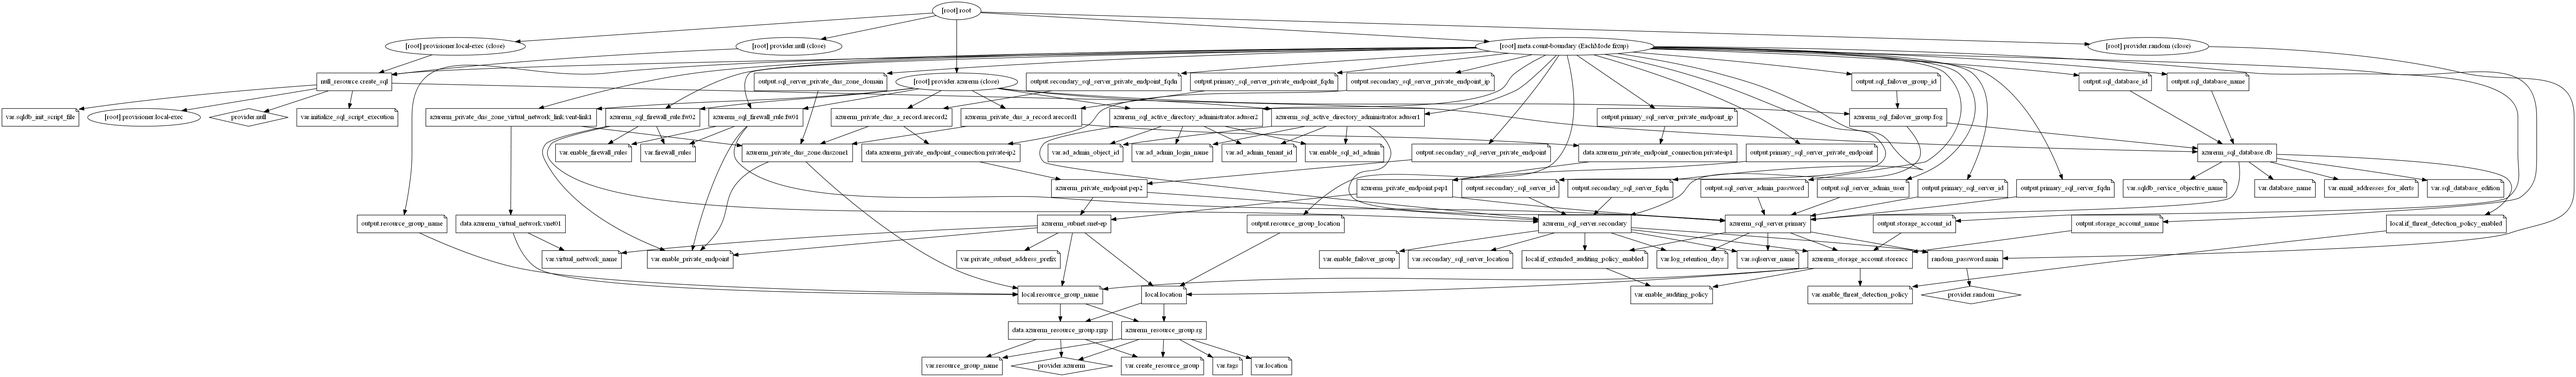
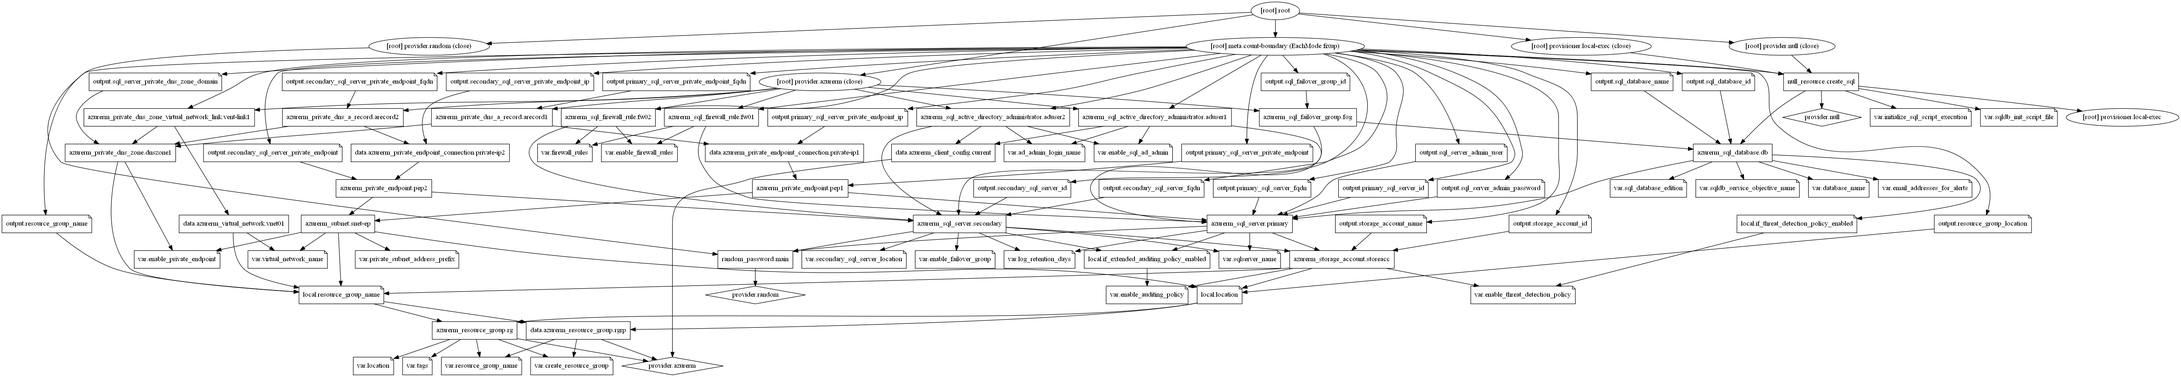
update module

diff --git a/README.md b/README.md
@@ -20,7 +20,7 @@ You can create a single database in the provisioned or serverless compute tier. 
 * [Private DNS zone for privatelink A records](https://www.terraform.io/docs/providers/azurerm/r/private_dns_zone.html)
 * [SQL Script execution to create Database](https://docs.microsoft.com/en-us/sql/ssms/scripting/sqlcmd-run-transact-sql-script-files?view=sql-server-ver15)
 
-> #### *If you prefer private endpoints feature, firewall rules are not relevant. However, this module can support both the Public and Private availability of the Database. Disable the firewall rules, in case you want to create the database using private endpoints only.*
+> #### *Note: If you prefer private endpoints feature, firewall rules are not relevant. However, this module can support both the Public and Private availability of the Database. Disable the firewall rules, in case you want to create the database using private endpoints only.*
 
 ## Module Usage
 
@@ -53,9 +53,7 @@ module "mssql-server" {
 
 # AD administrator for an Azure SQL server
   enable_sql_ad_admin             = true
-  ad_admin_login_name             = "hothead01"
-  ad_admin_tenant_id              = "2b25609c-e6e8-4f24-b7be-aa9fdef90a2d"
-  ad_admin_object_id              = "18821d6f-adbe-4d4d-97ca-71a56f70e392"  
+  ad_admin_login_name             = "firstname.lastname@tieto.com"
 
 # Private Endpoint for Sql servers
   enable_private_endpoint         = true
@@ -102,9 +100,7 @@ module "mssql-server" {
 
 # AD administrator for an Azure SQL server
   enable_sql_ad_admin             = true
-  ad_admin_login_name             = "hothead01"
-  ad_admin_tenant_id              = "2b25609c-e6e8-4f24-b7be-aa9fdef90a2d"
-  ad_admin_object_id              = "18821d6f-adbe-4d4d-97ca-71a56f70e392"  
+  ad_admin_login_name             = "firstname.lastname@tieto.com"
 
 # Firewall Rules to allow azure and external clients
   enable_firewall_rules           = true
@@ -170,9 +166,9 @@ By default, this feature not enabled on this module. To enable the threat detect
 
 ## Adding Active Directory Administrator to SQL Database
 
-Azure Active Directory authentication is a mechanism of connecting to Microsoft Azure SQL Database by using identities in Azure Active Directory (Azure AD). With Azure Active Directory authentication you can centrally manage the identities of database users and other Microsoft services in one central location.
+Azure Active Directory authentication is a mechanism of connecting to Microsoft Azure SQL Database by using identities in Azure Active Directory (Azure AD). This module adds the provided Azure Active Directory user/group to SQL Database as an administrator so that the user can login to this database with Azure AD authentication.   
 
-By default, this feature not enabled on this module. To add the Active Directory Administrator to SQL database, set the argument `enable_sql_ad_admin = true`. This is feature requires corresponding AD user login name (`ad_admin_login_name`), login user AD tenant id (`ad_admin_tenant_id`), and the object id of that user (`ad_admin_object_id`).
+By default, this feature not enabled on this module. To add the Active Directory Administrator to SQL database, set the argument `enable_sql_ad_admin = true` and provide valid Azure AD user login name (`ad_admin_login_name`). 
 
 ## Configuring the Azure SQL Database Firewall
 
@@ -257,8 +253,6 @@ Name | Description | Type | Default
 `email_addresses_for_alerts`|Account administrators email for alerts|`list(string)`|`""`
 `enable_sql_ad_admin`|Set a user or group as the AD administrator for an Azure SQL server|string|`"false"`
 `ad_admin_login_name`|The login name of the principal to set as the server administrator|string|`""`
-`ad_admin_tenant_id`|The ID of the principal to set as the server administrator|string|`""`
-`ad_admin_object_id`|The Azure Tenant ID|string|`""`
 `enable_firewall_rules`|Manages a Firewall Rule for a MySQL Server|string|`"false"`
 `firewall_rules`| list of firewall rules to add SQL servers| `list(string)`| `""`
 `enable_failover_group`|Create a failover group of databases on a collection of Azure SQL servers|string| `"false"`
@@ -294,6 +288,10 @@ Name | Description
 `primary_sql_server_private_endpoint_fqdn`|Priamary SQL server private endpoint IPv4 Addresses
 `secondary_sql_server_private_endpoint_ip`|Secondary SQL server private endpoint IPv4 Addresses
 `secondary_sql_server_private_endpoint_fqdn`|Secondary SQL server private endpoint IPv4 Addresses
+
+## Resource Graph
+
+![](graph.png)
 
 ## Authors
 

diff --git a/examples/README.md b/examples/README.md
@@ -37,9 +37,11 @@ module "mssql-server" {
 
 This module uses the tool slqcmd as a local provisioner to connect and inject the SQL initialization. To enable this feature set the argument `initialize_sql_script_execution = true` and use `sqldb_init_script_file` argument to provide the path to SQL script.
 
-> #### Note: To run this utility from your desktop, to create SQL database schema using SQL script requires firewall rule. Allow access to Azure services can be enabled by setting `start_ip_address` and `end_ip_address` to `0.0.0.0` and add your machine public IP to SQL firewall rules to run this feature else this will fail to run and exit the terraform plan.
+> #### *Note: To run this utility from your desktop, to create SQL database schema using SQL script requires firewall rule. Allow access to Azure services can be enabled by setting `start_ip_address` and `end_ip_address` to `0.0.0.0` and add your machine public IP to SQL firewall rules to run this feature else this will fail to run and exit the terraform plan.*
 
-> #### Note: Enabling `extended_auditing_policy` and `threat_detection_policy` features on SQL servers and database going to create a storage account to keep all audit logs. Log retention policy to be configured to keep the size within limits for this storage account. Note that this module creates resources that can cost money. 
+> #### *Note: Enabling `extended_auditing_policy` and `threat_detection_policy` features on SQL servers and database going to create a storage account to keep all audit logs. Log retention policy to be configured to keep the size within limits for this storage account. Note that this module creates resources that can cost money.* 
+
+> #### *Note: If you prefer private endpoints feature, firewall rules are not relevant. However, this module can support both the Public and Private availability of the Database. Disable the firewall rules, in case you want to create the database using private endpoints only.*
 
 ## Module Usage
 
@@ -72,9 +74,7 @@ module "mssql-server" {
 
 # AD administrator for an Azure SQL server
   enable_sql_ad_admin             = true
-  ad_admin_login_name             = "hothead01"
-  ad_admin_tenant_id              = "2b25609c-e6e8-4f24-b7be-aa9fdef90a2d"
-  ad_admin_object_id              = "18821d6f-adbe-4d4d-97ca-71a56f70e392"  
+  ad_admin_login_name             = "firstname.lastname@tieto.com"
 
 # Firewall Rules to allow azure and external clients
   enable_firewall_rules           = true
@@ -128,9 +128,7 @@ module "mssql-server" {
 
 # AD administrator for an Azure SQL server
   enable_sql_ad_admin             = true
-  ad_admin_login_name             = "hothead01"
-  ad_admin_tenant_id              = "2b25609c-e6e8-4f24-b7be-aa9fdef90a2d"
-  ad_admin_object_id              = "18821d6f-adbe-4d4d-97ca-71a56f70e392"  
+  ad_admin_login_name             = "firstname.lastname@tieto.com"
 
 # Private Endpoint for Sql servers
   enable_private_endpoint         = true
@@ -177,9 +175,7 @@ module "mssql-server" {
 
 # AD administrator for an Azure SQL server
   enable_sql_ad_admin             = true
-  ad_admin_login_name             = "hothead01"
-  ad_admin_tenant_id              = "2b25609c-e6e8-4f24-b7be-aa9fdef90a2d"
-  ad_admin_object_id              = "18821d6f-adbe-4d4d-97ca-71a56f70e392"  
+  ad_admin_login_name             = "firstname.lastname@tieto.com"
 
 # Firewall Rules to allow azure and external clients
   enable_firewall_rules           = true
@@ -237,9 +233,7 @@ module "mssql-server" {
 
 # AD administrator for an Azure SQL server
   enable_sql_ad_admin             = true
-  ad_admin_login_name             = "hothead01"
-  ad_admin_tenant_id              = "2b25609c-e6e8-4f24-b7be-aa9fdef90a2d"
-  ad_admin_object_id              = "18821d6f-adbe-4d4d-97ca-71a56f70e392"  
+  ad_admin_login_name             = "firstname.lastname@tieto.com"
 
 # Sql failover group
   enable_failover_group           = true
